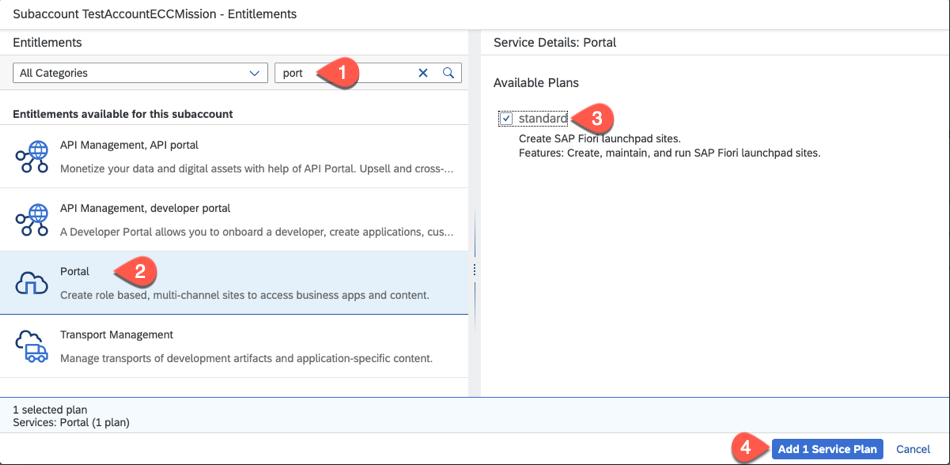
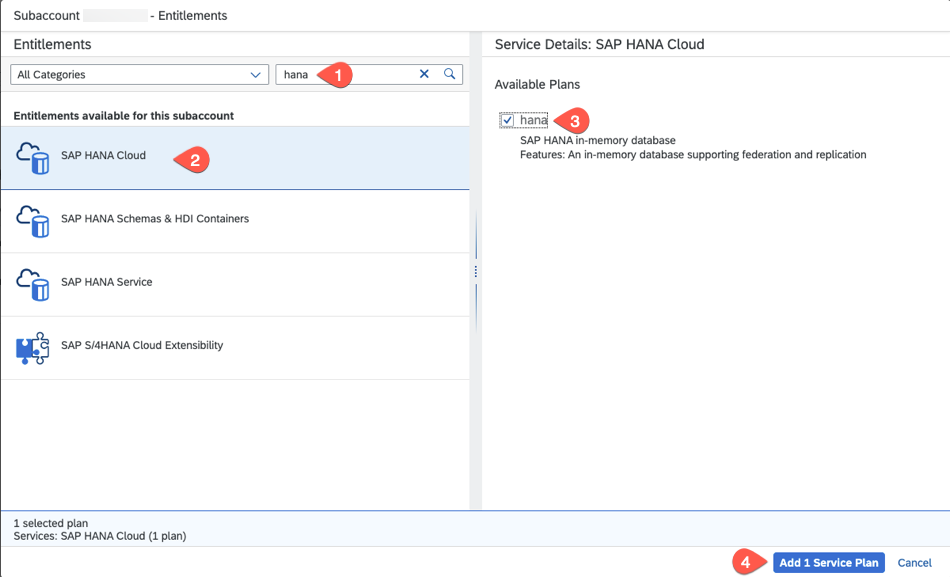
adding launchpad site

diff --git a/mission/run-demo/README.md b/mission/run-demo/README.md
@@ -7,64 +7,65 @@ Let us now try to test the end to end scenario by triggering an **Employee Termi
 
 ## Step-by-step
 
+### Start the Demo Application
 1. Login to your SAP BTP global account.
 2. Navigate to your sub-account and space where you have deployed your SuccessFactors extension application.
-3. Choose **Applications** and then choose the App Routter application, for example: **cloud-sf-extension-cap-sample-approuter**.
+3. You have the options to start the demo applications either by calling the applications from the **HTML5 Repository** or by the **SAP Launchpad** when you have done this optional implementation step
 
-   ![AppRouterURL](./images/AppRouterURL.png)
+4a. **Using HTML5 Repository**
+
+   - In the cockpit menue choose **HTML5 Applications**. You will find the notifications and projects applications in the repository
    
-   > If the project is deployed without the SAP Cloud Portal service then form the URL to run your application like below
-   >
-   >`https://<tenantId>.<appRouterHost>.<domain>/<appName-appVersion>/<resourcePath>`
-   >
-   >Example:
-    ```  https://<approuter-url>/projects-1.0.0/index.html ```
-    
-4.In the Application Routes section, choose the URL of the application `cloud-sf-extension-cap-sample-approuter`. This URL will launch the extension application.
+     ![Projects](./images/html5repo.png) 
+
+   - Select the projects application and login via the SuccessFactors IDP with your SAP SuccessFactors username that belongs to a manager. For example, the demo username **dleal (David Leal)** belongs to the fiction employee David Leal who is a manager.
+
+4b. **Using Launchpad Service**
+
+   - Open the launchpad URL which you have copied in [Create a Launchpad Site - step 5](../launchpad/README.md#copyURL)
+   - Login via the SuccessFactors IDP with your SAP SuccessFactors username that belongs to a manager. For example, the demo username **dleal (David Leal)** belongs to the fiction employee David Leal who is a manager.
    
-   ![AppRouterURL1](./images/AppRouterURL1.png)
-  
-5. Login with your SAP SuccessFactors username that belongs to a manager. For example, the demo username **dleal (David Leal)** belongs to the fiction employee David Leal who is a manager.
+     ![Projects](./images/Projects.png)
 
-   > You can choose any employee who is a Manager.
+### Run the Demo Application
 
-6. Choose the **Projects** tile.
+1. Choose the **Projects** tile.
 
-   ![Projects](./images/Projects.png)
+   ![Projects](./images/Projects2.png)
    
-7. Go to the **Projects** tab and choose **Edit**. 
+2. Go to the **Projects** tab and choose **Edit**. 
 
    ![Project Edit](./images/Edit.png)
 
-8. Choose **Create**. A new entry appears. 
+3. Choose **Create**. A new entry appears. 
    
    ![Assign Employee](./images/Create.png)
 
-9. Choose the drop-down in the Employee ID column of the new entry. All employees reporting to David Leal are displayed.
+4. Choose the drop-down in the Employee ID column of the new entry. All employees reporting to David Leal are displayed.
 
    ![Drop-down](./images/Drop-down.png)
    
-10. Select an employee, for example Simon Rampal (srampal), and assign him to projects. 
+5.  Select an employee, for example Simon Rampal (srampal), and assign him to projects. 
 
-11. **Save** the changes.
+6.   **Save** the changes.
 
-12. 14.	Log in to the SAP SuccessFactors demo instance with the SAP SuccessFactors Admin user, in this case the admin user is **sfadmin**.
+7.   Log in to the SAP SuccessFactors demo instance with the SAP SuccessFactors Admin user, in this case the admin user is **sfadmin**.
 
     ![step1](./images/step1.PNG)
     
-13. Search for the employee **David Leal** (dleal) in the Employee Directory.
-14. Choose the employee **David Leal**.
-15. Click **Actions** > **Jump To** > **Org Chart**.
+8.   Search for the employee **David Leal** (dleal) in the Employee Directory.
+9.  Choose the employee **David Leal**.
+10. Click **Actions** > **Jump To** > **Org Chart**.
     
     ![step4](./images/step4.PNG)
 
-16. Choose an employee who is reporting to **David Leal** for example Simon Rampal(srampal) who was assigned to the project in step 12.
+11. Choose an employee who is reporting to **David Leal** for example Simon Rampal(srampal) who was assigned to the project in step 12.
 
-17. Choose **Take Action** > **Termination**.
+12. Choose **Take Action** > **Termination**.
     
     ![step6](./images/step6.PNG)
     
-18. Make the following configuration:
+13. Make the following configuration:
       - In the **Termination Date** field, configure a future date. For example, a date one week from the current date
       - In the **Termination Reason**, select **Early Retirement (TERELRT)**
       - In the **OK to Retire field**, select **Yes**
@@ -72,30 +73,32 @@ Let us now try to test the end to end scenario by triggering an **Employee Termi
       
         ![step7](./images/step7.PNG)
         
-19. Choose **Save**.
-20. In the window **Please confirm your request**, choose **Show workflow participants**.
+14. Choose **Save**.
+15. In the window **Please confirm your request**, choose **Show workflow participants**.
     
-21. For the Termination event to get triggered, tow more Workflow participants has to approve this termination. In our demo system, workflow participants are shown as 1. Paul Atkins (Production Director); 2. Tessa Walker (HR Business Partner Global), Christine Dolan (Chief Human Resources Officer). This means that Paul Atkins and Tessa Walker (or Christine Dolan) must approve this request to proceed.
+16. For the Termination event to get triggered, tow more Workflow participants has to approve this termination. In our demo system, workflow participants are shown as 1. Paul Atkins (Production Director); 2. Tessa Walker (HR Business Partner Global), Christine Dolan (Chief Human Resources Officer). This means that Paul Atkins and Tessa Walker (or Christine Dolan) must approve this request to proceed.
     
-22. Choose **Confirm**.
-23. You can log in/ask the workflow participants to approve the request. Choose **Proxy Now** and then **Select Target User as Paul Atkins (patkins)** to approve the request.
+17. Choose **Confirm**.
+18. You can log in/ask the workflow participants to approve the request. Choose **Proxy Now** and then **Select Target User as Paul Atkins (patkins)** to approve the request.
     
     ![step12](./images/step12.PNG)
     
-24. In the Home page of **Paul Atkins** choose **Approve Requests**.
-25. Choose **Approve** for the **Early Retirement for Simon Rampal** request.
+19. In the Home page of **Paul Atkins** choose **Approve Requests**.
+20. Choose **Approve** for the **Early Retirement for Simon Rampal** request.
     
     ![step14](./images/step14.PNG)
     
-26. Choose **Proxy Now** and then **Select Target User as Tessa Walker(twalker)** to approve the request.
-27. In the Home page of **Tessa Walker**, choose **Approve Requests**.
-28. Choose **Approve** for the **Early Retirement of Simon Rampal** request. Now two users have approved the early retirement and an event will be triggered.
-29. Switch to the browser window where you have opened the SAP BTP extension application (you opened this app in Step 3).
-30. Login with user **David Leal (dleal)** who is a manager.
-31. Choose **Notifications**.
+21. Choose **Proxy Now** and then **Select Target User as Tessa Walker(twalker)** to approve the request.
+22. In the Home page of **Tessa Walker**, choose **Approve Requests**.
+23. Choose **Approve** for the **Early Retirement of Simon Rampal** request. Now two users have approved the early retirement and an event will be triggered.
+24. Switch to the browser window where you have opened the SAP BTP extension application (you opened this app in Step 3).
+25. Login with user **David Leal (dleal)** who is a manager.
+26. Choose **Notifications**.
+    > By using the **HTML5 Repository** start the notification application. 
+    > ![notification](./images/html5repo2.png)
     
     ![step20](./images/NotificationInApp.png)
     
-32. Notification will be displayed regarding the resignation of Simon Rampal along with his skillset.
+27. Notification will be displayed regarding the resignation of Simon Rampal along with his skillset.
 
     ![step21](./images/Step29.png)

diff --git a/mission/launchpad/README.md b/mission/launchpad/README.md
@@ -1,0 +1,103 @@
+# Publishing your application to SAP Launchpad Site
+
+## Introduction
+
+In this section, we would describe steps of how you can add your HTML5 application to the SAP Launchpad and how you can build a company site with the HTML5 application. 
+You can later add this company site into your SAP SuccessFactors Employee Central homepage.
+
+**Persona:** SAP Launchpad Administrator
+
+**Abbreviation:** SAP Business Technology Platform = SAP BTP
+
+## Step-by-Step
+ 
+### Open SAP Launchpad application
+
+1. Login to your SAP BTP account.
+2. Check if your user has access to open Launchpad application, check and assign the role collection **Launchpad_admin** to your user following [Assign Role for SAP Launchpad](https://help.sap.com/viewer/8c8e1958338140699bd4811b37b82ece/Cloud/en-US/fd79b232967545569d1ae4d8f691016b.html). Your user would have automatically got the necessary roles if you have [created a BTP account using the boosters](../scp-setup/README.md).
+3. Select **Services** and choose **Instances and Subscriptions**. 
+4. Select the tab **Subscriptions**, look for **Launchpad**, Select the three dots **...** to open the relevant **Actions**. Select **Go to Application** to open **SAP Launchpad** service. 
+
+   ![Open Biz App Studio](./images/openLaunchpad.png)
+   
+5. Enter your SAP BTP email and password or your custom Identity Provider credentials to login to the Launchpad Application which opens in a separate browser tab.
+
+
+### Add HTML5 applications to necessary Group and Role
+  
+1. Select on **Provider Manager** to check the Content Providers and to refresh the list of HTML5 Applications. 
+
+   ![check Created Site](./images/checkCreatedSite.png)
+   
+2.  Select **Fetch Updated Content** to manually fetch any new HTML5 applications deployed to the SAP BTP. This will fetch any new content deployed. Then Select **Content Manager** to look and add the HTML5 apps to Launchpad site.
+
+   ![refresh Content](./images/refreshContent.png)
+   
+3. In **Content Manager**, Select  **Content Explorer** tab and Select **HTML5 Apps** to see the list of HTML5 applications to be added to the Launchpad site.
+
+    ![open Content Explorer](./images/openContentExplorer.png)
+    
+4. Select both your HTML5 applications: **Manage Notification** and **Manage Projects** from the list and Select **Add to Content**. 
+
+   ![add App to Content](./images/addApptoContent.png)
+
+5. Select **My Content** and choose **New** and Select **New Role** to create a role for these 2 applications.
+
+   ![addSFSFRole1](./images/addSFSFRole1.png)
+   
+6. Enter a meaningful **Title** and **Description** and in the **Assignments** section, Select the **Search** icon which displays both the HTML5 applications, Select the **+** icon next to **Manage Notification** and **Manage Projects** app and Select **Save** to save the new role.
+
+   ![addSFSFRole2](./images/addSFSFRole2.png)
+   
+7. Select **back** icon to go back to the previous screen and Select **New** and Select **Group** to create a new group.
+
+   ![create Group1](./images/createGroup1.png)
+   
+8. Enter a group name, for example: **SFSFGroup** and a valid description. In the **Assignments** section, Select the **Search** icon which displays both the HTML5 applications, Select the **+** icon next to **Manage Notification** and **Manage Projects** app and Select **Save** to save the new group.
+
+   ![create Group2](./images/createGroup2.png)
+   
+
+   
+### Create a Launchpad Site
+
+1. Select **Site Directory** to create a new Launchpad site for your company.
+
+   ![gotoSiteDirectory](./images/gotoSiteDirectory.png)
+   
+2. Select  **Create Site** to create a company Launchpad site.
+   
+   ![createSite1](./images/createSite1.png)
+
+3. Enter a site name, for example : **companyLaunchpadSite** and Select **Create**.
+
+   ![create Site2](./images/createSite2.png)
+   
+4. Select **Edit** and in the **Assignments** section, Select the search icon and select the created role **SFSFAppRole** and choose **Save**.
+ 
+   ![create Site3](./images/createSite3.png)
+   
+ 5. You can see the company Launchpad site URL in the URL field. Copy the URL of the Launchpad site which you can add later in SAP SuccessFactors Employee Central in the Home page.
+  <a id="copyURL"></a>
+   ![open Created Site](./images/openCreatedSite.png)
+
+
+### Assign Role to Users
+
+1. Switch to your SAP BTP account cockpit.
+2. Select **Role Collections** and select the role which you created in the previous step, for example: **SFSFAppsRole**.
+
+   ![assignrole1](./images/assignrole1.png)
+   
+3. Select **Edit** and in the **Users** section, Select **+** and enter the **ID**, choose the **Identity Provider** and enter **E-mail** for all the users who would access the SAP Launchpad site. You might want to add all your SAP SuccessFactors users with the custom Identity Provider or assign the relevant group. 
+
+    ![assignrole2](./images/assignrole2.png)
+    
+ 4. You can now access the Launchpad site URL which you copied in the previous step. If you do not have authorizations, try to logout and login with the user or open in a private browser window. You will see both the **Notifications** and **Project** HTML5 applications.
+
+    ![open Site](./images/openSite.png)    
+    
+
+### Result
+
+You have successfully created a Launchpad site, giving necessary roles and groups and added your HTML5 application to the Launchpad site.

diff --git a/mission/scp-setup/README.md b/mission/scp-setup/README.md
@@ -9,7 +9,7 @@ For running this SAP SuccessFactors extension tutorial, you will need the follow
 * Enterprise Messaging Hub
 * Cloud Foundry Runtime
 * SAP HANA Cloud service
-* SAP Portal / SAP Launchpad
+* SAP Launchpad
 * SAP Continuous Integration & Delivery service (optional)
 
 The entitlement differs for the pricing option of your account:
@@ -57,7 +57,8 @@ Before running the booster, please check for which regions and infrastructures t
 
 5. Now let us setup your BTP Subaccount, To learn more about global and subaccounts, refer to this [Account Model help page](https://help.sap.com/viewer/65de2977205c403bbc107264b8eccf4b/Cloud/en-US/8ed4a705efa0431b910056c0acdbf377.html)
    
-You find the list of the Services that will acctivated by the Booster. For this tutorial, the **Continuous Integration & Delivery** service is optional same for the **Launchpad** service, if you don't want to use this service, you can remove this service before running the booster. The **Extension Center**, and **Extension Factory, serverless runtime** services are not needed for this tutorial - select the **Remove** icon to remove them. This means they will not be set up when the Booster is completed. 
+   You find the list of the Services that will be activated by the Booster. For this tutorial, there are also optional services like : **Continuous Integration & Delivery** service, if you don't want to use these services, you can remove this service before running the booster. The **Extension Center**, and **Extension Factory, serverless runtime** services are not needed for this tutorial - select the **Remove** icon to remove them. This means they will not be set up when the Booster is completed. 
+We will need the **SAP Launchpad** service to run the sample HTML5 applications which use 'Managed Application Router', refer to [SAP Help - Developing HTML5 Applications in the Cloud Foundry Environment](https://help.sap.com/viewer/65de2977205c403bbc107264b8eccf4b/Cloud/en-US/11d77aa154f64c2e83cc9652a78bb985.html), so do not remove the **SAP Launchpad Service**.
    
    ![Booster](./images/booster-05.png)
 
@@ -109,19 +110,18 @@ If you use a subscription based SAP BTP accounts you have to add 3 quota for Clo
 
     ![Booster](./images/booster-12.png)
 
-### Configure Entitlements to SAP Portal and SAP Hana service
+### Configure Entitlements to SAP HANA service
 
-Currently, this extension application uses local Fiori Launchpad which comes as part of SAP Cloud Portal service, so the application will create a binding to the portal service instance. You have to configure Entitlements for SAP Cloud Portal service.
 
-1. In your SAP BTP Cockpit, choose **Entitlements** and click **Configure Entitlements**.
+1. In your SAP BTP Cockpit, choose **Entitlements** and choose **Entity Assignments**, select your sub-account and click **Configure Entitlements**.
 
-   ![entitlement01](./images/entitlement01.png)
+   ![entitlement01](./images/configureEntitlement1.png)
    
 2. Choose **Add Service Plans**.
 
    ![entitlement02](./images/entitlement02.png)
    
-3. Search for **Portal** and select **Portal** from the list and select the **standard** checkbox from the Available Plans. Choose **Add 1 Service Plan**.
+3. Search for **hana** and select **SAP HANA Cloud** from the list and select the **hana** checkbox from the Available Plans. Choose **Add 1 Service Plan**.
 
    ![entitlement03](./images/entitlement03.png)
    
@@ -129,7 +129,6 @@ Currently, this extension application uses local Fiori Launchpad which comes as 
 
    ![entitlement04](./images/entitlement04.png)
    
-5. Check if you have entitlement to SAP HANA Cloud, if not configure the entitlements in the same way for **SAP HANA Cloud** service with **hana** service plan. 
 
 ### B: Create a SAP HANA Cloud Instance
 For this tutorial, a SAP HANA Cloud Instance is necessary. Use the following steps for activating it:

diff --git a/mission/README.md b/mission/README.md
@@ -55,6 +55,7 @@ For running this mission you need a SAP BTP, Cloud Foundry sub-account with the 
 * [Setup your SAP BTP Account using Boosters](./scp-setup/README.md) 
 * [Setup Trust between your SAP BTP sub-account and your SAP SuccessFactors account](./trust-setup/README.md)
 * [Configure, deploy and build the CAP Extension Application](./extension-app/README.md)
+* [Create SAP Launchpad site and add extension applications(optional)](./launchpad/README.md)
 * [Integrate SAP Continuous Integration & Delivery (optional)](./cicd/README.md) 
 * [Confgure the SAP Event Mesh Service](./ems-config/README.md) 
 * [Configure Eventing in SAP SuccessFactors](./sf-configuration/README.md)
